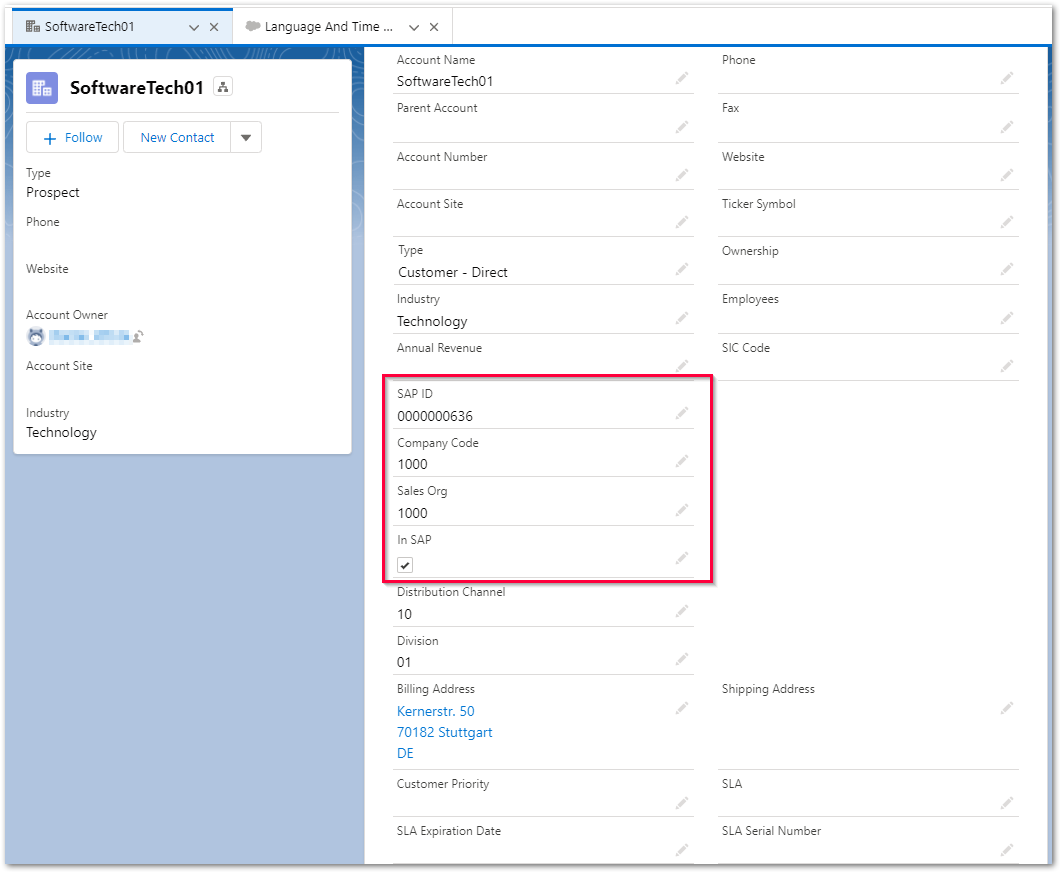
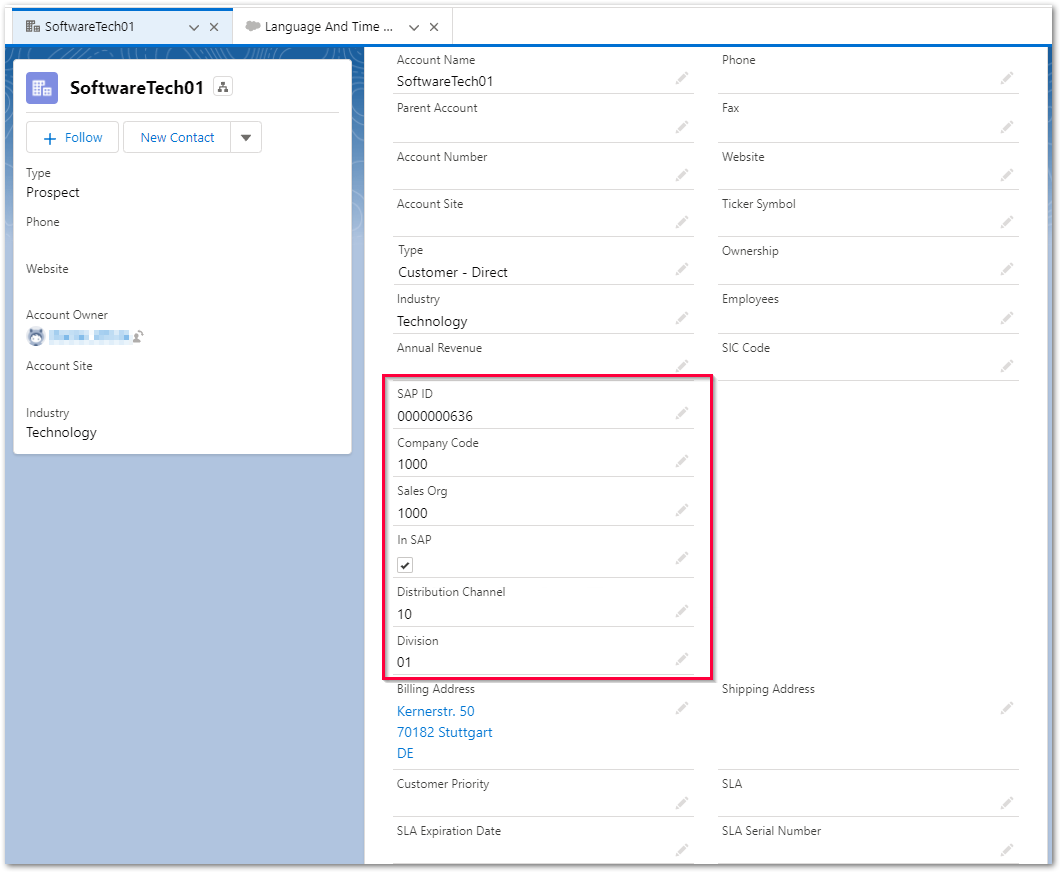
screenshots updated

Changed region(s): [[0.3421, 0.6495, 0.6843, 0.8041]]

diff --git a/content/_yunio/salesforce-power-automate-scenario.md b/content/_yunio/salesforce-power-automate-scenario.md
@@ -46,7 +46,7 @@ Customize your Salesforce account to provide SAP related fields:
 For more information on how to customize fields in Salesforce, see [Salesforce Documentation: Create Custom Fields](https://help.salesforce.com/s/articleView?id=sf.adding_fields.htm&type=5).
 
 {: .box-note }
-**Note:** Creating *Company Code* and *Sales Org* in Salesforce is optional as they can also be set as static values in Power Automate.
+**Note:** Creating *Company Code*, *Sales Org*, *Distribution Channel* and *Disivion* in Salesforce is optional as they can also be set as static values in Power Automate.
 
 ![salesforce_before_sap](/img/contents/yunio/salesforce_before_sap.png){:class="img-responsive" width="900px"}
 
@@ -71,8 +71,8 @@ If TYPE does not equal 'E' (error), the SAP customer number is written back to S
 
 ### Triggering the Process
 
-1. Go to Salesforce and change the account type from *Prospect* to *Customer - Direct*.<br>
-Make sure that the checkbox *In SAP* is deactivated and the fields *Company Code* and *Sales Org* are not empty.
+1. Go to Salesforce and change the account type from *Prospect* to *Customer - Direct*.
+Make sure that the checkbox *In SAP* is deactivated.
 2. The Power Automate workflow runs and creates the customer in SAP. <br>
 ![power-automate-finished](/img/contents/yunio/power-automate-finished.png){:class="img-responsive"}
 3. Check if the SAP customer number is set in Salesforce and if the checkbox *In SAP* is active.
